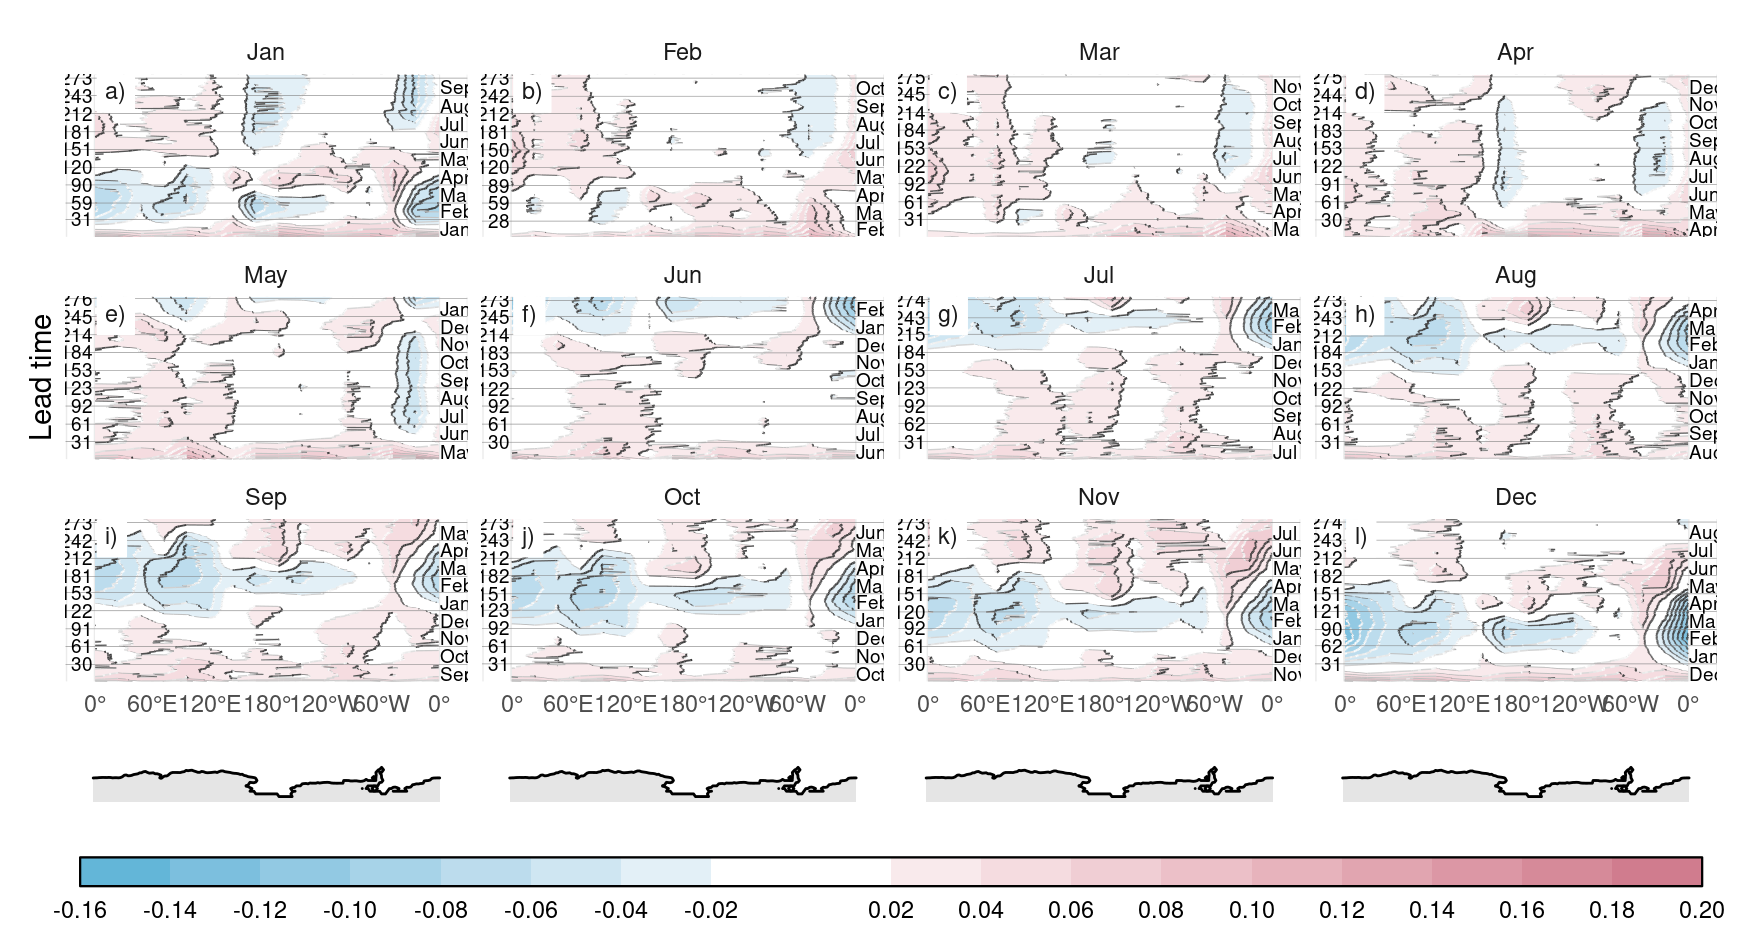
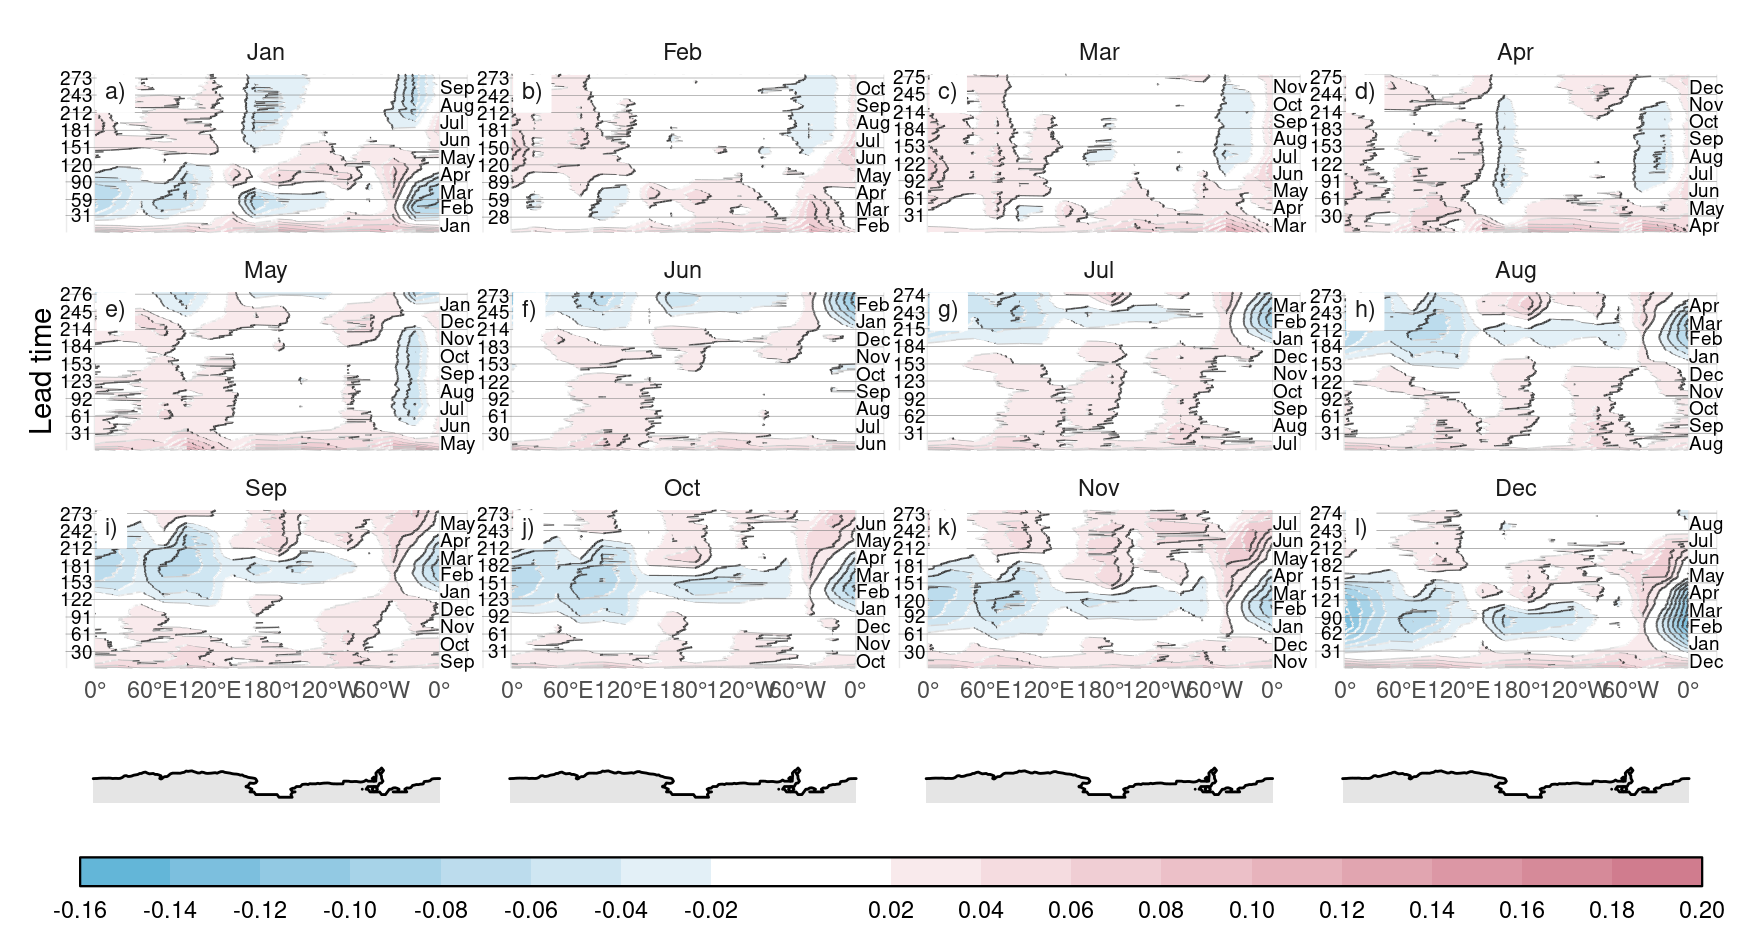
Tweaks

diff --git a/analysis/poster_ncar/presentation_figures.html b/analysis/poster_ncar/presentation_figures.html
@@ -601,11 +601,8 @@ p</code></pre>
   theme_void() +
   theme(strip.background = element_blank(),
         strip.text = element_blank(),
-        aspect.ratio = 0.1,
-        plot.margin = margin(c(-50, 0, 0, 0)))
+        aspect.ratio = 0.1)
 
-theme_margin &lt;- theme_get()$plot.margin
-theme_margin[3] &lt;- margin(-10)[1]
 
 binwidth &lt;- 0.02
 rmse_lon_mean |&gt; 
@@ -639,10 +636,9 @@ rmse_lon_mean |&gt;
   wide_legend +
   facet_wrap(~ month, labeller = labeller(month = labels_month)) +
   theme(panel.background = element_blank(), 
-        tagger.panel.tag.background = element_rect(colour = &quot;white&quot;, fill = &quot;white&quot;), 
-        plot.margin = theme_margin) +
+        tagger.panel.tag.background = element_rect(colour = &quot;white&quot;, fill = &quot;white&quot;)) +
   tag_facets(position = list(x = 0.08, y = 1, hjust = 0, vjust = 1)) +
-  
+  coord_cartesian(clip = &quot;off&quot;) +
   
   topo_inset +
   
